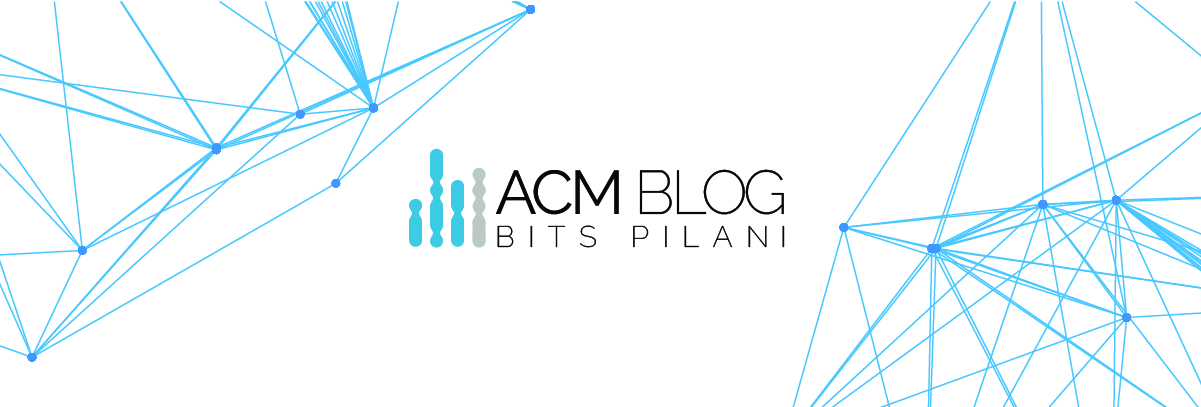
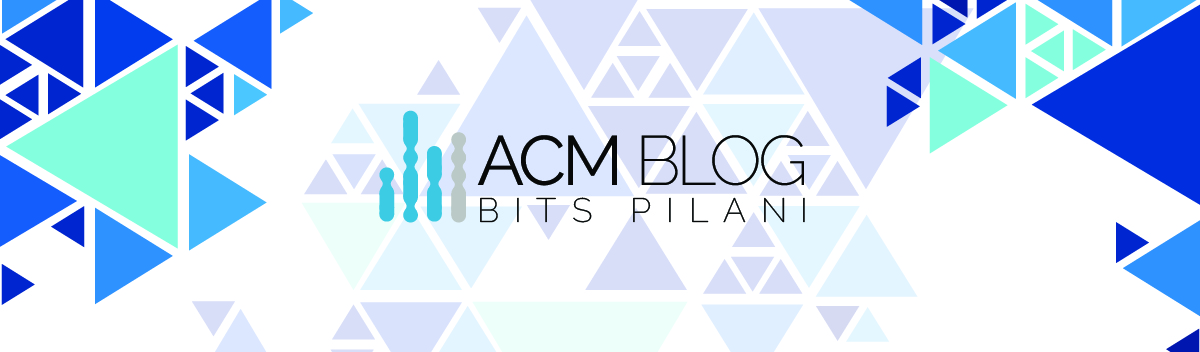
translucent navbar completed

diff --git a/public/gen.css b/public/gen.css
@@ -1,4 +1,4 @@
-html,body{
+html,body,section{
   margin: 0;
   padding: 0;
   border: 0;
@@ -9,10 +9,6 @@ div{
   display: block;
 }
 
-img{
-  max-width: 100%;
-}
-
 ul{
   text-align: center;
   list-style-type: none;
@@ -20,15 +16,43 @@ ul{
   padding: 0;
 }
 
+.navbar{
+  position: absolute;
+  bottom: 0px;
+  width: 100%;
+  color: rgb(255, 255, 255);
+  background-color: rgba(27, 27, 27, 0.7);
+}
+
 .navbar li{
   display:inline-block !important;
-  padding: 5px 13px ;
+  padding: 10px 18px ;
 }
 
 .navbar li a{
-  font: 400 21px/1.8 Lato, sans-serif;
-  color: #3bcce4;
-  text-transform: uppercase;
-  text-align: center;
+  font: 300 19px/1.8 Lato, sans-serif;
+  color: #fff;
   text-decoration: none;
+  cursor: default;
+  text-transform: uppercase;;
+}
+
+.navbar li a:hover{
+  color: #3bcce4;
+  padding-top: 11px;
+  border-top: 6px solid #3bcce4;
+}
+
+#banner{
+  height: 23em;
+  background-image: url("../images/banner 5.jpg");
+  background-size: cover;
+  background-position: center;
+  text-align: center;
+  position: relative;
+}
+
+#wrapper{
+  background-image: url("../images/bg01.png");
+  background-color: rgb(247, 247, 247);
 }

diff --git a/index.html b/index.html
@@ -2,6 +2,8 @@
 layout: default
 title: Home
 ---
-{% include navbar.html %}
-<img src="/images/banner 1.jpg" alt="Blog banner" style="width:100%">
+
+{% include banner.html %}
+
 <h1>hi</h1>
+<h2>manan</h2>

diff --git a/_includes/banner.html b/_includes/banner.html
@@ -1,0 +1,4 @@
+<section id="banner">
+    <!-- Navbar -->
+    {% include navbar.html %}
+</section>

diff --git a/_layouts/default.html b/_layouts/default.html
@@ -4,8 +4,7 @@
   {% include head.html %}
 
   <body>
-
     {{ content }}
-
   </body>
+
 </html>
